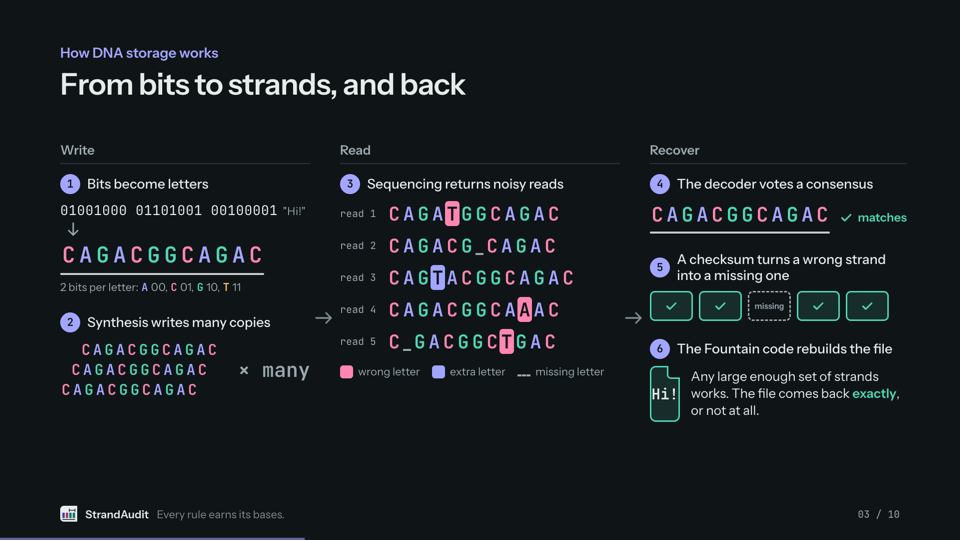
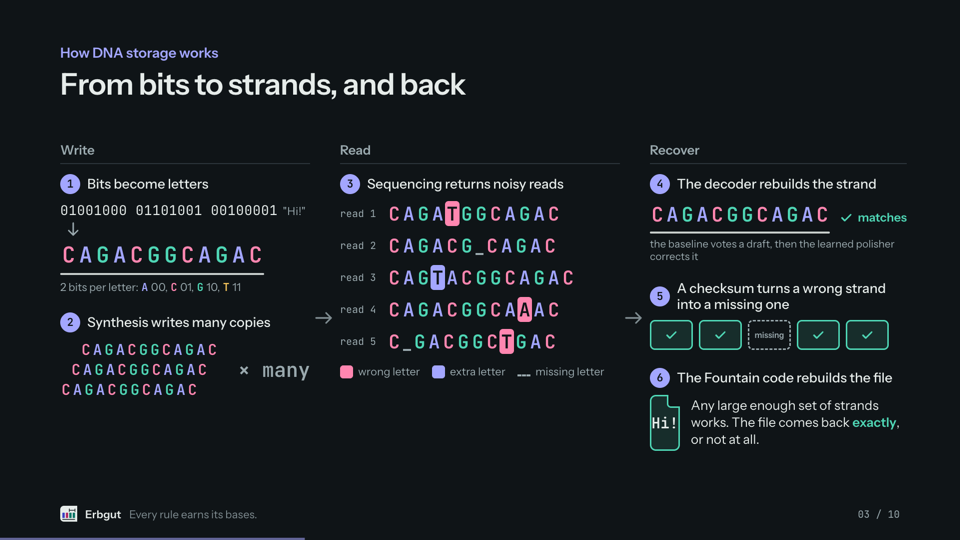
Deck: architecture slide A0, and the polisher replaces the transformer
New first appendix slide, one screen with the whole system in four builds:
the storage path (profile, encoder, Simulator A, decoder chain, recover),
the learned polisher, the risk model with the loop closing back into the
encoder, then evaluation and the firewall. Learned parts are indigo,
classic code neutral, Simulator B muted, with a legend and notes for a 40
to 60 second walkthrough. Appendix numbering now starts at A0.

The decoder is the baseline draft plus the learned polisher everywhere:
the models slide, the ablation ladder, the pipeline slide and the judge
questions, with the real held-out numbers (41.0 to 56.8% at 4 reads, 67.0
to 82.5% at 6, 90.0 to 95.1% at 16, and 4.7% of strands unrecoverable
from all 27 reads). Also fixes the gloss line under the wordmark, which
used an undefined token and a tiny font size.

Changed region(s): [[0.6562, 0.4444, 0.9375, 0.8296], [0.0938, 0.9481, 0.3125, 0.9778], [0.7812, 0.3259, 0.9062, 0.3556]]

diff --git a/marketing/deck/index.html b/marketing/deck/index.html
@@ -131,8 +131,8 @@
     <div class="col">
       <div class="colhead">Recover</div>
       <div class="step frag" data-f="4">
-        <div class="cap"><span class="stepno">4</span>The decoder votes a consensus</div>
-        <div class="consensus"><span class="seq strandline" data-seq="CAGACGGCAGAC"></span><span class="ok"><svg viewBox="0 0 24 24" aria-hidden="true"><path d="M5 12.5l4.5 4.5L19 7.5" fill="none" stroke="currentColor" stroke-width="2.6" stroke-linecap="round" stroke-linejoin="round"/></svg>matches</span></div>
+        <div class="cap"><span class="stepno">4</span>The decoder rebuilds the strand</div>
+        <div class="consensus"><span class="seq strandline" data-seq="CAGACGGCAGAC"></span><span class="ok"><svg viewBox="0 0 24 24" aria-hidden="true"><path d="M5 12.5l4.5 4.5L19 7.5" fill="none" stroke="currentColor" stroke-width="2.6" stroke-linecap="round" stroke-linejoin="round"/></svg>matches</span></div><div class="how">the baseline votes a draft, then the learned polisher corrects it</div>
       </div>
       <div class="step frag" data-f="5">
         <div class="cap"><span class="stepno">5</span>A checksum turns a wrong strand into a missing one</div>
@@ -156,7 +156,7 @@
     <p>Quick picture of how DNA storage works.</p>
     <p><i class="cue"></i> Bits become letters, two bits per letter. <i class="cue"></i> Synthesis writes many copies of each strand.</p>
     <p><i class="cue"></i> Sequencing reads them back noisy: wrong letters, extra letters, missing letters. Every read is different.</p>
-    <p><i class="cue"></i> The decoder takes the cluster of reads for one strand and votes a consensus.</p>
+    <p><i class="cue"></i> The decoder takes the cluster of reads for one strand: the baseline votes a draft, and a small learned polisher corrects what is left.</p>
     <p><i class="cue"></i> If the consensus is still wrong, a checksum catches it and marks the strand as missing.</p>
     <p><i class="cue"></i> And the Fountain code rebuilds the file from whatever strands are left. It comes back exactly, or not at all.</p>
   </aside>
@@ -341,6 +341,21 @@
 </section>
 
 <!-- ================================================================ Appendix -->
+<section class="slide appx" id="a-arch" data-appendix data-title="Appendix: what we built"
+  data-labels="The storage path|The learned polisher|The risk model and the loop|Evaluation and the firewall">
+  <p class="kicker">Appendix <span class="tag">A0</span></p>
+  <h2 class="title sm">What we actually built</h2>
+  <div class="arch" id="arch"></div>
+  <aside class="notes">
+    <p>Backup slide. When a judge asks what we actually built, jump here. 40 to 60 seconds.</p>
+    <p><i class="cue"></i> The storage path. A channel profile describes one situation as JSON: error rates, the 5-letter context table, dropout, the read budget, costs. It is fit on real reads. The encoder is a Fountain code: for every slot it makes 8 to 32 candidate strands, puts a checksum in each, and a scorer keeps one. Simulator A plays the lab: dropouts, uneven coverage, per-read quality, errors every read shares, and context errors. The decoder chain gets the noisy reads back. Then a checksum turns a wrong strand into a missing one, and the Fountain code rebuilds the file.</p>
+    <p><i class="cue"></i> The one learned part in that path is the polisher. The classic baseline aligns the reads and votes a draft; a small dilated CNN, about 0.8 million parameters, looks at 17 vote features per position and says keep, substitute, delete, or insert.</p>
+    <p><i class="cue"></i> Around it runs the loop. Freeze the decoder, label strands by simulating each one 32 times to see where the decoder fails, train the risk model on those labels, search the settings, and hand the risk model back to the encoder so it keeps the safest candidate. At most three rounds.</p>
+    <p><i class="cue"></i> Everything is judged by one evaluation: 300 held-out trials, the fewest reads per strand at the recovery target, written to a result file that the dashboard, this deck and the demo all read. And Simulator B sits outside the loop, built from different mechanisms, only to check that a gain survives.</p>
+    <p class="aside">Indigo is learned, grey is classic code. Two learned models in the whole system.</p>
+  </aside>
+</section>
+
 <section class="slide appx" id="a-sim" data-appendix data-title="Appendix: the channel simulator">
   <p class="kicker">Appendix <span class="tag">A1</span></p>
   <h2 class="title sm">The channel simulator, step by step</h2>
@@ -378,14 +393,18 @@
   <h2 class="title sm">Exactly two learned models</h2>
   <div class="layout two">
     <div class="box card">
-      <h3>Transformer decoder</h3>
+      <h3>Learned polisher</h3>
       <dl class="io">
-        <dt>Question</dt><dd>What was the original strand?</dd>
-        <dt>Input</dt><dd>Up to 16 noisy reads of one strand</dd>
-        <dt>Output</dt><dd>One strand of exactly the strand length, the most likely letter per position</dd>
+        <dt>Question</dt><dd>Which letters of the baseline's draft are still wrong?</dd>
+        <dt>Input</dt><dd>The draft and its vote columns, 17 features per position</dd>
+        <dt>Output</dt><dd>Per position: keep, substitute, or delete, plus insert a letter in the gap in front</dd>
       </dl>
-      <p>Encoder over each read, then one learned query per output position attends to every read. Base size 9.6M parameters. Pretrained on simulated clusters, fine-tuned on 70% real clusters, then per channel.</p>
-      <p>It never says "not sure". Wrong guesses are caught by the per-strand checksum. Versus the baseline on real held-out data: <span class="res" data-key="qa.transformerVsBaseline" data-fmt="text" data-ph="RESULT: transformer vs majority vote at 2, 4 and 6 reads"></span></p>
+      <p>Dilated 1D CNN, 8 residual blocks, about 0.8M parameters. The classic baseline aligns the reads and votes the draft; the polisher corrects it, like a Nanopore assembly polisher. It keeps as many insertions as deletions, so the strand length always comes out right.</p>
+      <table class="mini"><tr><th>Reads</th><th>Baseline</th><th>Polished</th></tr>
+        <tr><td>4</td><td>41.0%</td><td class="audit">56.8%</td></tr>
+        <tr><td>6</td><td>67.0%</td><td class="audit">82.5%</td></tr>
+        <tr><td>16</td><td>90.0%</td><td class="audit">95.1%</td></tr></table>
+      <p class="src">Exact strands on real held-out Nanopore clusters. 4.7% of strands stay unrecoverable even with all 27 reads.</p>
     </div>
     <div class="box card">
       <h3>Risk model</h3>
@@ -394,7 +413,7 @@
         <dt>Input</dt><dd>Candidate strands</dd>
         <dt>Output</dt><dd>One number in [0, 1] per strand: the predicted failure rate</dd>
       </dl>
-      <p>1D CNN over the letters. Labels: each training strand is simulated 32 times at the channel's read budget and decoded by the frozen decoder. Label = the fraction decoded wrongly.</p>
+      <p>1D CNN over the letters. Labels: each training strand is simulated 32 times at the channel's read budget and decoded by the frozen decoder chain. Label = the fraction decoded wrongly.</p>
       <p>Specific to one channel, one read budget and one decoder. Ranking on real held-out reads: <span class="res" data-key="qa.riskModelRealAuc" data-fmt="text" data-ph="RESULT: real-read AUC of the retrained risk model"></span></p>
     </div>
   </div>
@@ -418,7 +437,7 @@
     <div class="box card">
       <h3>What it runs</h3>
       <ul>
-        <li><b>Decoder training.</b> Pretrain on simulated clusters, fine-tune on real and simulated, adapt per channel.</li>
+        <li><b>Polisher training.</b> Vote features from simulated and real train clusters, weighted toward low coverage, adapted per channel.</li>
         <li><b>Risk labels.</b> Every training strand simulated 32 times at the read budget and decoded.</li>
         <li><b>Recovery trials.</b> 300 held-out trials of the 20 KB file per final codec, spread across the 20 cores.</li>
         <li><b>The loop and the evidence.</b> Rule audit, ablation ladder, crossover matrix, firewall.</li>
@@ -435,7 +454,7 @@
     <div class="card"><p class="q">You have no wet lab. How do you know it's real?</p><p class="a">We don't synthesize or sequence anything. The simulator matches real held-out reads within about 3 points at every read count. Every gain must survive Simulator B, and the risk model's ranking is checked on real reads: <span class="res" data-key="qa.riskModelRealAuc" data-fmt="text" data-ph="RESULT: real-read AUC"></span></p></div>
     <div class="card"><p class="q">Isn't this just DNA Fountain?</p><p class="a">The encoder is DNA Fountain style on purpose. We change how it's configured: which rules, how much redundancy, which candidate to keep, per channel. We don't claim a better encoder.</p></div>
     <div class="card"><p class="q">What if the hand rules are already optimal?</p><p class="a">Then the tool says so, with measurements, and that's useful. The audit is a measurement, not a bet against the rules. <span class="res" data-key="qa.handRulesOptimalOn" data-fmt="text" data-ph="RESULT: channels where the hand rules held, if any"></span></p></div>
-    <div class="card"><p class="q">Isn't the improvement just your transformer?</p><p class="a">No. The default, system B, already uses the same decoder. B to C isolates the rule audit, C to D learned selection. A to B is the decoder, which DNAformer already showed. Both tiers also work with majority vote.</p></div>
+    <div class="card"><p class="q">Isn't the improvement just your learned decoder?</p><p class="a">No. The default, system B, already uses the same decoder chain. B to C isolates the rule audit, C to D learned selection. A to B is the polisher, and we report that separately. Both tiers also work with plain majority vote.</p></div>
   </div>
   <aside class="notes"><p>Answer in one or two sentences, then stop.</p></aside>
 </section>
@@ -457,7 +476,7 @@
   <h2 class="title sm">Questions we expect</h2>
   <div class="layout qa">
     <div class="card"><p class="q">The Microsoft dataset has known issues. Does that matter?</p><p class="a">Yes, and we handle it. Its references aren't uniformly random, so we use it for calibration and benchmarks, never to learn risky motifs. Simulator B uses a context table fit on DNAformer.</p></div>
-    <div class="card"><p class="q">Is the transformer better than the baseline?</p><p class="a"><span class="res" data-key="qa.transformerVsBaseline" data-fmt="text" data-ph="RESULT: transformer vs majority vote at 2, 4 and 6 reads"></span> The baseline already gets 90.6% exact strands at 16 reads on real held-out data. If the transformer doesn't beat it, everything runs on the baseline and both claims still stand.</p></div>
+    <div class="card"><p class="q">Does the polisher beat the baseline?</p><p class="a">On real held-out clusters, exact strands go from 41.0% to 56.8% at 4 reads, 67.0% to 82.5% at 6 reads and 90.0% to 95.1% at 16 reads. The room is at low coverage, where reading is cheap. Both claim tiers compare codecs with the same decoder, so they hold either way.</p></div>
     <div class="card"><p class="q">What would a real user do with this?</p><p class="a">Describe their channel as a profile, calibrate it on a sample of their own reads, and let the tool say which rules and how much redundancy to use. Cost figures use placeholder prices.</p></div>
     <div class="card"><p class="q">What did the GX10 do?</p><p class="a">Decoder training, risk labels (each strand simulated 32 times and decoded), and 300 held-out recovery trials per final codec, spread across its 20 cores. See A3.</p></div>
   </div>

diff --git a/marketing/deck/slides.js b/marketing/deck/slides.js
@@ -317,6 +317,99 @@
       `<span class="pill illus">illustration, real strands are 110 letters</span></div>`;
   }
 
+  /* ------------------------------------------------------------ appendix A0: architecture */
+
+  // One canvas, 1680 x 700. Builds: 1 the storage path, 2 the polisher, 3 the loop, 4 evaluation
+  // and the firewall. "learned" boxes are the two learned models, everything else is classic code.
+  const ARCH_BOXES = [
+    { f: 1, x: 0, y: 40, w: 290, h: 232, title: 'Channel profile',
+      list: ['error rates per base', '5-mer context table', 'dropout and coverage', 'read budget, costs'],
+      foot: 'JSON per situation, fit on real reads' },
+    { f: 1, x: 317, y: 40, w: 310, h: 232, title: 'Encoder',
+      list: ['Fountain code', '8 to 32 candidates per slot', 'a checksum in every strand', 'a scorer keeps one'] },
+    { f: 1, x: 654, y: 40, w: 300, h: 232, title: 'Simulator A',
+      list: ['dropouts, uneven coverage', 'per-read quality', 'errors every read shares', '5-mer context errors'] },
+    { f: 1, x: 981, y: 16, w: 340, h: 324, title: 'Decoder chain', subs: [
+      { f: 1, title: 'Baseline', text: 'aligns the reads, votes a draft' },
+      { f: 2, learned: true, title: 'Polisher', text: 'dilated 1D CNN, 0.8M parameters<br>17 vote features per position<br>heads: keep, substitute, delete, insert' },
+    ] },
+    { f: 1, x: 1348, y: 40, w: 330, h: 232, title: 'Recover',
+      list: ['the checksum turns a wrong strand into a missing one', 'the Fountain code rebuilds the file'] },
+    { f: 4, x: 654, y: 346, w: 300, h: 150, firewall: true, title: 'Simulator B',
+      list: ['different mechanisms, never optimized on, only to check that a gain survives'] },
+    { f: 4, x: 1348, y: 346, w: 330, h: 232, title: 'Evaluation',
+      list: ['300 held-out trials', 'fewest reads at the recovery target', 'writes the result JSON that the dashboard, this deck and the demo read'] },
+    { f: 3, x: 1020, y: 510, w: 300, h: 130, title: 'Freeze the decoder', n: '1',
+      list: ['adapt it to the channel, then hold it fixed'] },
+    { f: 3, x: 680, y: 510, w: 300, h: 130, title: 'Label strands', n: '2',
+      list: ['32 simulations each, see where the decoder fails'] },
+    { f: 3, x: 340, y: 510, w: 300, h: 130, learned: true, title: 'Train the risk model', n: '3',
+      list: ['predicts a strand\u2019s failure rate on this channel'] },
+    { f: 3, x: 0, y: 510, w: 300, h: 130, title: 'Search settings', n: '4',
+      list: ['rules, redundancy, risk threshold, candidates'] },
+  ];
+
+  function arrow(x1, y1, x2, y2) {
+    const dx = x2 - x1;
+    const dy = y2 - y1;
+    const len = Math.hypot(dx, dy) || 1;
+    const ux = dx / len;
+    const uy = dy / len;
+    const hx = -uy;
+    const hy = ux;
+    const p = (a, b) => `${(x2 - ux * 14 + hx * a).toFixed(1)} ${(y2 - uy * 14 + hy * b).toFixed(1)}`;
+    return `M${p(8, 8)} L${x2} ${y2} L${p(-8, -8)}`;
+  }
+
+  function buildArchitecture() {
+    const host = document.getElementById('arch');
+    if (!host) return;
+    const box = (b) => {
+      const cls = ['abox', b.learned ? 'learned' : '', b.firewall ? 'firewall' : '', 'frag', 'fade'].filter(Boolean).join(' ');
+      const inner = b.subs
+        ? b.subs.map((s) => `<div class="sub ${s.learned ? 'learned frag fade' : ''}"${s.learned ? ` data-f="${s.f}"` : ''}><b>${s.title}</b><p>${s.text}</p>${s.learned ? '<span class="tagl">learned</span>' : ''}</div>`).join('')
+        : `<ul>${(b.list || []).map((l) => `<li>${l}</li>`).join('')}</ul>`;
+      return (
+        `<div class="${cls}" data-f="${b.f}" style="left:${b.x}px;top:${b.y}px;width:${b.w}px;height:${b.h}px">` +
+        `<h4>${b.n ? `<span class="n">${b.n}</span>` : ''}${b.title}</h4>${inner}` +
+        (b.foot ? `<div class="afoot">${b.foot}</div>` : '') +
+        (b.learned && !b.subs ? '<span class="tagl">learned</span>' : '') +
+        `</div>`
+      );
+    };
+    const wire = (f, d, cls) => `<path class="frag fade ${cls || ''}" data-f="${f}" d="${d}"/>`;
+    const label = (f, x, y, text, anchor) =>
+      `<text class="frag fade" data-f="${f}" x="${x}" y="${y}"${anchor ? ` text-anchor="${anchor}"` : ''}>${text}</text>`;
+
+    const wires =
+      // the storage path
+      wire(1, `M292 156 H309 ${arrow(292, 156, 313, 156)}`) +
+      wire(1, `M290 66 C 420 18, 540 18, 686 34 ${arrow(662, 28, 694, 36)}`) +
+      label(1, 470, 10, 'the channel, fit on real reads', 'middle') +
+      wire(1, `M631 156 H646 ${arrow(631, 156, 650, 156)}`) +
+      wire(1, `M958 156 H973 ${arrow(958, 156, 977, 156)}`) +
+      wire(1, `M1325 156 H1340 ${arrow(1325, 156, 1344, 156)}`) +
+      // the loop
+      wire(3, `M1170 344 V500 ${arrow(1170, 476, 1170, 504)}`) +
+      label(3, 1156, 430, 'where the decoder fails', 'end') +
+      wire(3, `M1014 575 H994 ${arrow(1014, 575, 986, 575)}`) +
+      wire(3, `M674 575 H654 ${arrow(674, 575, 646, 575)}`) +
+      wire(3, `M334 575 H314 ${arrow(334, 575, 306, 575)}`) +
+      wire(3, `M150 506 V320 H466 V286 ${arrow(466, 316, 466, 280)}`, 'learnedwire') +
+      label(3, 168, 302, 'the risk model feeds the scorer') +
+      label(3, 680, 676, 'at most 3 rounds', 'middle') +
+      // evaluation and the firewall
+      wire(4, `M804 276 V342 ${arrow(804, 318, 804, 346)}`, 'dash') +
+      label(4, 818, 322, 'firewall') +
+      wire(4, `M1513 276 V342 ${arrow(1513, 318, 1513, 346)}`) +
+      label(4, 1527, 322, 'every codec, every claim');
+
+    host.innerHTML =
+      `<div class="legend"><span><i></i>classic code</span><span><i class="learned"></i>learned</span><span><i class="firewall"></i>firewall only</span></div>` +
+      `<svg class="wires" width="1680" height="700" viewBox="0 0 1680 700" aria-hidden="true">${wires}</svg>` +
+      ARCH_BOXES.map(box).join('');
+  }
+
   /* ------------------------------------------------------------ slide 7: cycle and Pareto */
 
   function buildCycle() {
@@ -476,7 +569,7 @@
 
   const LADDER = [
     ['A', 'Fixed rules', 'majority vote'],
-    ['B', 'Fixed rules', 'our decoder'],
+    ['B', 'Fixed rules', 'polished decoder'],
     ['C', 'Audited rules', 'tuned redundancy'],
     ['D', 'C plus', 'risk model'],
     ['E', 'Full loop', 'all rounds'],
@@ -805,6 +898,7 @@
       buildCandidates();
       buildAudit(R);
       buildTier2();
+      buildArchitecture();
       buildCycle();
       buildPareto(R);
       buildAblation(R);

diff --git a/marketing/deck/deck.css b/marketing/deck/deck.css
@@ -670,6 +670,7 @@ html.results-broken .load-error { display: block; }
 #s-pipeline .consensus .ok { color: var(--sa-gain); font-weight: 600; font-size: 24px; display: inline-flex; gap: 8px; align-items: center; opacity: 0; transition: opacity 0.4s 1s; }
 #s-pipeline.s4 .consensus .ok { opacity: 1; }
 #s-pipeline .consensus .ok svg { width: 30px; height: 30px; }
+#s-pipeline .how { font-size: 21px; color: var(--sa-muted); margin-top: 8px; }
 
 #s-pipeline .pool { display: flex; gap: 12px; align-items: center; }
 #s-pipeline .tile {
@@ -1041,6 +1042,12 @@ html.results-broken .load-error { display: block; }
 .appx .box p { margin: 0 0 12px; }
 .appx .box ul { margin: 0; padding-left: 26px; }
 .appx .box b { color: var(--sa-ink); }
+.appx table.mini { border-collapse: collapse; margin: 4px 0 10px; font-size: 22px; }
+.appx table.mini th { font-weight: 600; color: var(--sa-muted); text-align: right; padding: 4px 22px 6px 0; font-size: 20px; }
+.appx table.mini th:first-child, .appx table.mini td:first-child { text-align: left; width: 120px; }
+.appx table.mini td { font-family: var(--mono); font-weight: 600; text-align: right; padding: 4px 22px 4px 0; color: var(--sa-ink); border-top: 1.5px solid var(--sa-rule); }
+.appx table.mini td.audit { color: var(--sa-audit); }
+.appx .src { font-size: 21px; color: var(--sa-muted); line-height: 1.35; }
 .appx .io { display: grid; grid-template-columns: 150px 1fr; gap: 8px 18px; font-size: 25px; line-height: 1.35; margin-bottom: 14px; }
 .appx .io dt { font-weight: 600; color: var(--sa-audit); }
 .appx .io dd { margin: 0; color: var(--sa-ink); }
@@ -1061,6 +1068,43 @@ html.results-broken .load-error { display: block; }
 .qa .a { font-size: 23.5px; line-height: 1.42; color: var(--sa-muted); margin: 0; }
 .qa .a .ph { font-size: 20px; }
 .qa > div { padding: 22px 26px; }
+
+/* ---------------------------------------------------------------- appendix A0: architecture */
+
+#a-arch .arch { position: absolute; left: 120px; top: 258px; width: 1680px; height: 700px; }
+#a-arch .abox {
+  position: absolute; border-radius: 16px; border: 2px solid var(--sa-rule); background: var(--sa-surface);
+  padding: 14px 18px;
+}
+#a-arch .abox h4 { margin: 0 0 8px; font-size: 26px; font-weight: 600; letter-spacing: -0.01em; display: flex; align-items: center; gap: 10px; }
+#a-arch .abox h4 .n { font-family: var(--mono); font-size: 20px; color: var(--sa-muted); font-weight: 600; }
+#a-arch .abox ul { margin: 0; padding-left: 22px; }
+#a-arch .abox li, #a-arch .abox p { font-size: 20.5px; line-height: 1.3; color: var(--sa-muted); margin: 0 0 3px; }
+#a-arch .abox ul { padding-left: 20px; }
+#a-arch .abox .afoot { font-size: 19px; color: var(--sa-muted); margin-top: 8px; font-style: normal; opacity: 0.9; }
+#a-arch .abox.learned { border-color: var(--sa-audit); background: var(--tint-audit); }
+#a-arch .abox.learned h4 { color: var(--sa-audit); }
+#a-arch .abox.learned li, #a-arch .abox.learned p { color: var(--sa-ink); }
+#a-arch .abox.firewall { border-style: dashed; border-color: var(--sa-muted); background: transparent; opacity: 0.85; }
+#a-arch .sub { position: relative; border-radius: 12px; border: 2px solid var(--sa-rule); padding: 8px 12px; margin-bottom: 8px; background: var(--sa-paper); }
+#a-arch .sub:last-child { margin-bottom: 0; }
+#a-arch .sub b { font-size: 22px; display: block; margin-bottom: 2px; }
+#a-arch .sub.learned { border-color: var(--sa-audit); background: var(--tint-audit); }
+#a-arch .sub.learned b { color: var(--sa-audit); }
+#a-arch .tagl {
+  position: absolute; top: -13px; right: 12px; font-size: 16px; font-weight: 600; letter-spacing: 0.02em;
+  padding: 1px 10px; border-radius: 999px; background: var(--sa-audit); color: var(--on-accent);
+}
+#a-arch svg.wires { position: absolute; left: 0; top: 0; overflow: visible; }
+#a-arch svg.wires path { fill: none; stroke: var(--sa-muted); stroke-width: 3; stroke-linecap: round; stroke-linejoin: round; }
+#a-arch svg.wires path.learnedwire { stroke: var(--sa-audit); }
+#a-arch svg.wires path.dash { stroke-dasharray: 8 7; }
+#a-arch svg.wires text { fill: var(--sa-muted); font-family: var(--sans); font-size: 19px; }
+#a-arch .legend { position: absolute; right: 0; top: -62px; display: flex; gap: 22px; font-size: 20px; color: var(--sa-muted); }
+#a-arch .legend span { display: inline-flex; align-items: center; gap: 9px; }
+#a-arch .legend i { width: 22px; height: 22px; border-radius: 6px; border: 2px solid var(--sa-rule); background: var(--sa-surface); }
+#a-arch .legend i.learned { border-color: var(--sa-audit); background: var(--tint-audit); }
+#a-arch .legend i.firewall { border-style: dashed; border-color: var(--sa-muted); background: transparent; }
 
 /* ---------------------------------------------------------------- overlays */
 
@@ -1217,4 +1261,4 @@ html[data-theme="light"] .p-notes .cue { background: #3A3FC2; color: #fff; }
 html[data-theme="light"] .p-notes .cue.next { background: #F4C45A; color: #131B20; }
 .p-notes .aside { color: #9AA9AE; font-size: 0.8em; }
 
-.hero .gloss { margin: 0.1em 0 0; font-size: 0.5em; letter-spacing: 0.02em; color: var(--muted); }
+#s-title .gloss { margin: 14px 0 0; font-size: 30px; font-weight: 500; letter-spacing: 0; color: var(--sa-muted); }

diff --git a/marketing/deck/deck.js b/marketing/deck/deck.js
@@ -128,15 +128,15 @@
     let appNo = 0;
     slides.forEach((s, k) => {
       const appx = s.hasAttribute('data-appendix');
-      const label = appx ? `A${++appNo}` : `${String(++mainNo).padStart(2, '0')} / ${String(mainCount).padStart(2, '0')}`;
-      s.dataset.num = appx ? `A${appNo}` : String(mainNo);
+      const label = appx ? `A${appNo++}` : `${String(++mainNo).padStart(2, '0')} / ${String(mainCount).padStart(2, '0')}`;
+      s.dataset.num = appx ? `A${appNo - 1}` : String(mainNo);
       const foot = document.createElement('div');
       foot.className = 'foot';
       foot.innerHTML = `${window.SlideHooks.markSVG}<span class="name">Erbgut</span><span class="line">Every rule earns its bases.</span><span class="num">${label}</span>`;
       s.appendChild(foot);
       const ov = document.createElement('span');
       ov.className = 'ovnum';
-      ov.textContent = appx ? `A${appNo}` : String(mainNo);
+      ov.textContent = appx ? `A${appNo - 1}` : String(mainNo);
       s.appendChild(ov);
       s.setAttribute('aria-roledescription', 'slide');
       s.setAttribute('aria-label', `${s.dataset.title || ''} (${label})`);

diff --git a/marketing/deck/results.sample.js b/marketing/deck/results.sample.js
@@ -70,7 +70,6 @@ window.RESULTS = {
     "imageDemo": "SAMPLE: the default codec fails to recover the image, the tuned codec gets it back bit for bit"
   },
   "qa": {
-    "transformerVsBaseline": "SAMPLE: transformer vs baseline sentence goes here.",
     "riskModelRealAuc": "SAMPLE: AUC 0.xx on held-out real clusters.",
     "riskTopPatterns": "SAMPLE: top patterns go here.",
     "handRulesOptimalOn": "SAMPLE: channel list goes here."

diff --git a/marketing/deck/results.js b/marketing/deck/results.js
@@ -103,7 +103,6 @@ window.RESULTS = {
     "imageDemo": null
   },
   "qa": {
-    "transformerVsBaseline": null,
     "riskModelRealAuc": null,
     "riskTopPatterns": null,
     "handRulesOptimalOn": null

diff --git a/marketing/deck/README.md b/marketing/deck/README.md
@@ -47,7 +47,7 @@ Main flow, 3:00 (targets per slide are in `index.html` as `data-plan`, and drive
 |---|---|---|---|
 | 1 | Title | 0:00 to 0:08 | animated strand |
 | 2 | The problem | 0:08 to 0:28 | rulebook stamped onto Nanopore and Illumina |
-| 3 | How DNA storage works | 0:28 to 0:52 | bits to letters, synthesis, noisy reads, consensus, checksum, Fountain code |
+| 3 | How DNA storage works | 0:28 to 0:52 | bits to letters, synthesis, noisy reads, the decoder chain, checksum, Fountain code |
 | 4 | Where the rules come in | 0:52 to 1:05 | 8 candidates, rules reject, scorer keeps one |
 | 5 | Tier 1, the rule audit | 1:05 to 1:32 | switches flip, verdict table fills per channel |
 | 6 | Tier 2, learning from failures | 1:32 to 1:52 | hot spots light up, measured evidence, encoder steers around |
@@ -56,7 +56,7 @@ Main flow, 3:00 (targets per slide are in `index.html` as `data-plan`, and drive
 | 9 | Evidence: simulator and firewall | 2:32 to 2:46 | real vs simulated curve, table, firewall steps |
 | 10 | Results and close | 2:46 to 3:00 | headline results, tagline, team, repo |
 
-Appendix (after the end, not timed): A1 the channel simulator, A2 the two AI models, A3 the GX10 setup, A4 to A6 judge questions.
+Appendix (after the end, not timed): **A0 the architecture**, one screen with the whole system and four builds (storage path, the learned polisher, the risk model and the loop, evaluation and the firewall). This is the slide to jump to when a judge asks what you actually built, and its notes carry a 40 to 60 second walkthrough. Then A1 the channel simulator, A2 the two learned models, A3 the GX10 setup, A4 to A6 judge questions.
 
 Speaker notes live in each slide's `<aside class="notes">`. `click` markers in the presenter view show where each build goes; the next one is highlighted.
 
@@ -76,7 +76,7 @@ It fills the rule audit, Pareto points, ablation ladder, crossover matrix and fi
 - `headline.imageDemo`: one sentence about the image round trip at 6 reads per strand
 - `crossover.summary`: optional one-line outcome (computed automatically when each codec wins at home and not away)
 - `firewall.*.status`: `"holds"`, `"does not hold"` or `"measured"`, with a short `note`. The converter proposes these from the numbers; confirm each one.
-- `qa.*`: short sentences for the appendix answers
+- `qa.riskModelRealAuc`, `qa.riskTopPatterns`, `qa.handRulesOptimalOn`: short sentences for the appendix answers
 
 The field list is at the top of `results.js`. Keep the object valid JSON (double quotes, no trailing commas). If the file breaks, the deck still opens with a red banner and everything pending.
 
@@ -86,7 +86,7 @@ Only use numbers that came out of `dnacodec.evaluate` on held-out seeds and that
 
 ## Numbers the deck states
 
-Measured and documented, never invented: shared Nanopore errors 45 to 66% explained by the 5-letter context and hot spots at AUC 0.80 to 0.90 on held-apart data in two datasets; the held-out calibration table (real 4.9 / 39.8 / 66.5 / 84.5 / 90.1% vs Simulator A 3.6 / 40.3 / 63.7 / 83.0 / 90.3% exact strands at 2 / 4 / 6 / 10 / 16 reads); baseline 90.6% exact strands at 16 reads on real held-out data; 20 KB test file, 300 held-out trials; about 11,000 lines of Python, about 2,500 of them tests; ASUS Ascent GX10 (NVIDIA GB10). The appendix also quotes specs from `docs/ERRORS.md`, `docs/MODELS.md` and `README.md` (fitted error rates, model size, 32 simulations per label). The DNA strands on slides 3, 4 and 6 are illustrations; the rule checks on slide 4 are computed from the shown letters.
+Measured and documented, never invented: shared Nanopore errors 45 to 66% explained by the 5-letter context and hot spots at AUC 0.80 to 0.90 on held-apart data in two datasets; the held-out calibration table (real 4.9 / 39.8 / 66.5 / 84.5 / 90.1% vs Simulator A 3.6 / 40.3 / 63.7 / 83.0 / 90.3% exact strands at 2 / 4 / 6 / 10 / 16 reads); the decoder chain on real held-out clusters, baseline to polished, 41.0% to 56.8% exact strands at 4 reads, 67.0% to 82.5% at 6 and 90.0% to 95.1% at 16, with 4.7% of strands unrecoverable even from all 27 reads; 20 KB test file, 300 held-out trials; about 11,000 lines of Python, about 2,500 of them tests; ASUS Ascent GX10 (NVIDIA GB10). The appendix also quotes specs from `docs/ERRORS.md`, `docs/MODELS.md` and `README.md` (fitted error rates, model size, 32 simulations per label). The DNA strands on slides 3, 4 and 6 are illustrations; the rule checks on slide 4 are computed from the shown letters.
 
 ## Files
 
@@ -95,7 +95,7 @@ Measured and documented, never invented: shared Nanopore errors 45 to 66% explai
 | `index.html` | All slides and speaker notes |
 | `deck.css` | Brand tokens (dark and light), layout, animations, presenter view |
 | `deck.js` | Engine: scaling, navigation, builds, hash, overview, help, black screen, presenter view, window sync, timer and pacing |
-| `slides.js` | Generated and data-driven content: DNA letters, candidates, rule audit, charts, placeholders, spoken result sentences |
+| `slides.js` | Generated and data-driven content: DNA letters, candidates, rule audit, charts, the A0 architecture diagram, placeholders, spoken result sentences |
 | `results.js` | The one place for results (pending until the runs finish) |
 | `results.sample.js` | Fake values for previewing, labeled SAMPLE |
 | `tools/results_from_run.py` | Fills `results.js` from `results/<run_id>/` |
